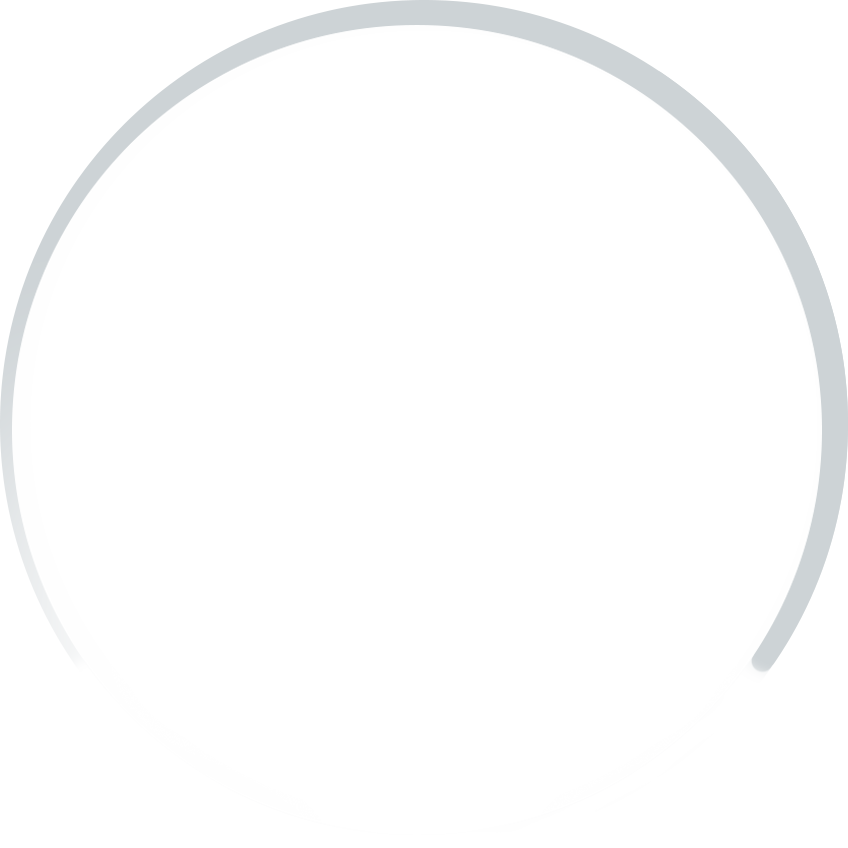
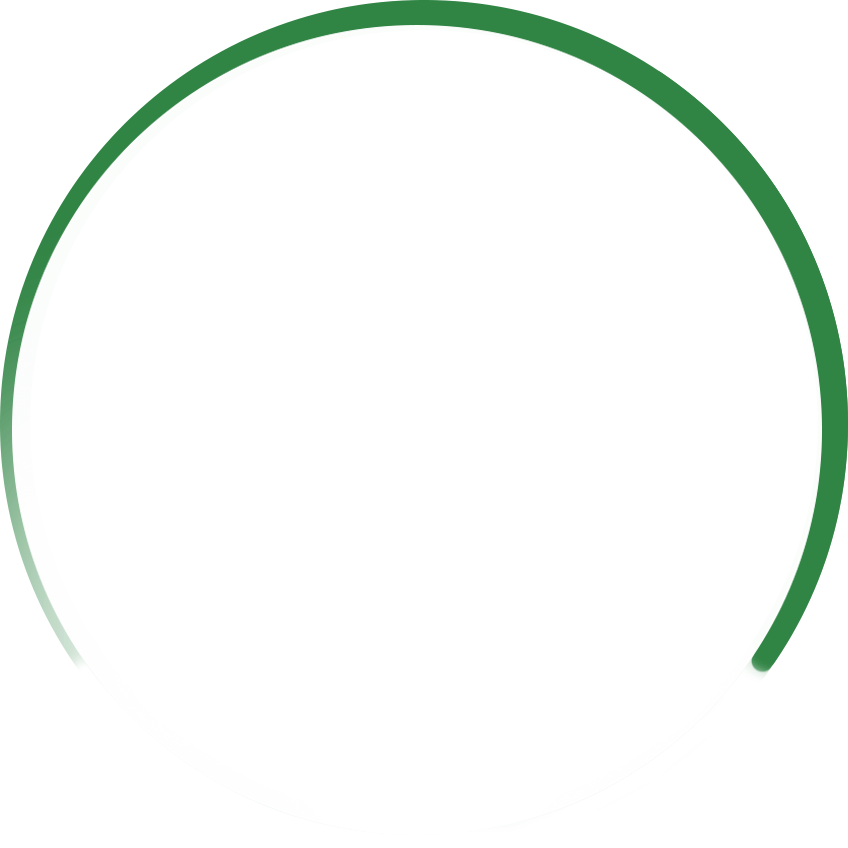
FrogPilot branding

Changed region(s): [[0.0, 0.0, 1.0, 0.7972]]

diff --git a/frogpilot/common/frogpilot_functions.py b/frogpilot/common/frogpilot_functions.py
@@ -2,8 +2,13 @@
 import threading
 import time
 
+from pathlib import Path
+
+from openpilot.common.basedir import BASEDIR
 from openpilot.common.time_helpers import system_time_valid
 from openpilot.system.hardware import HARDWARE
+
+from openpilot.frogpilot.common.frogpilot_utilities import run_cmd
 
 
 def frogpilot_boot_functions():
@@ -21,6 +26,32 @@ def install_frogpilot():
   for path in paths:
     path.mkdir(parents=True, exist_ok=True)
 
+  update_boot_logo(frogpilot=True)
+
 
 def uninstall_frogpilot():
+  update_boot_logo(stock=True)
+
   HARDWARE.uninstall()
+
+
+def update_boot_logo(frogpilot=False, stock=False):
+  boot_logo_location = Path("/usr/comma/bg.jpg")
+
+  if frogpilot:
+    target_logo = Path(BASEDIR) / "frogpilot/assets/other_images/frogpilot_boot_logo.jpg"
+  elif stock:
+    target_logo = Path(BASEDIR) / "frogpilot/assets/other_images/stock_bg.jpg"
+  else:
+    print(f'Error: Must specify either "frogpilot=True" or "stock=True"')
+    return
+
+  if not target_logo.is_file():
+    print(f"Error: Target logo file not found at {target_logo}")
+    return
+
+  if boot_logo_location.read_bytes() != target_logo.read_bytes():
+    mount_options = run_cmd(["findmnt", "-n", "-o", "OPTIONS", "/"], "Successfully retrieved mount options", "Failed to retrieve mount options")
+    run_cmd(["sudo", "mount", "-o", "remount,rw", "/"], "Successfully remounted / as read-write", "Failed to remount /")
+    run_cmd(["sudo", "cp", target_logo, boot_logo_location], "Successfully replaced boot logo", "Failed to replace boot logo")
+    run_cmd(["sudo", "mount", "-o", f"remount,{mount_options}", "/"], "Successfully restored / mount options", "Failed to restore / mount options")

diff --git a/selfdrive/selfdrived/selfdrived.py b/selfdrive/selfdrived/selfdrived.py
@@ -125,7 +125,7 @@ class SelfdriveD:
     self.rk = Ratekeeper(100, print_delay_threshold=None)
 
     # Determine startup event
-    self.startup_event = EventName.startup if build_metadata.openpilot.comma_remote and build_metadata.tested_channel else EventName.startupMaster
+    self.startup_event = FrogPilotEventName.customStartupAlert
     if HARDWARE.get_device_type() == 'mici':
       self.startup_event = None
     if not car_recognized:
@@ -158,7 +158,10 @@ class SelfdriveD:
 
     # Add startup event
     if self.startup_event is not None:
-      self.events.add(self.startup_event)
+      if self.startup_event in (FrogPilotEventName.customStartupAlert):
+        self.frogpilot_events.add(self.startup_event)
+      else:
+        self.events.add(self.startup_event)
       self.startup_event = None
 
     # Don't add any more events if not initialized

diff --git a/selfdrive/selfdrived/events.py b/selfdrive/selfdrived/events.py
@@ -395,6 +395,8 @@ def invalid_lkas_setting_alert(CP: car.CarParams, CS: car.CarState, sm: messagin
 
 
 # FrogPilot variables
+def custom_startup_alert(CP: car.CarParams, CS: car.CarState, sm: messaging.SubMaster, metric: bool, soft_disable_time: int, personality) -> Alert:
+  return StartupAlert(frogpilot_toggles.startup_alert_top, frogpilot_toggles.startup_alert_bottom, alert_status=FrogPilotAlertStatus.frogpilot)
 
 
 
@@ -1030,6 +1032,9 @@ EVENTS: dict[int, dict[str, Alert | AlertCallbackType]] = {
 
 # FrogPilot variables
 FROGPILOT_EVENTS: dict[int, dict[str, Alert | AlertCallbackType]] = {
+  FrogPilotEventName.customStartupAlert: {
+    ET.PERMANENT: custom_startup_alert,
+  },
 }
 
 

diff --git a/system/ui/spinner.py b/system/ui/spinner.py
@@ -28,6 +28,7 @@ LINE_HEIGHT = 104
 DARKGRAY = (55, 55, 55, 255)
 
 # FrogPilot variables
+GREEN = (23, 134, 68, 242)
 
 
 def clamp(value, min_value, max_value):
@@ -82,7 +83,7 @@ class Spinner(Widget):
       rl.draw_rectangle_rounded(bar, 1, 10, DARKGRAY)
 
       bar.width *= self._progress / 100.0
-      rl.draw_rectangle_rounded(bar, 1, 10, rl.WHITE)
+      rl.draw_rectangle_rounded(bar, 1, 10, GREEN)
     elif self._wrapped_lines:
       for i, line in enumerate(self._wrapped_lines):
         text_size = measure_text_cached(gui_app.font(), line, FONT_SIZE)

diff --git a/selfdrive/ui/qt/util.cc b/selfdrive/ui/qt/util.cc
@@ -27,7 +27,7 @@ QString getVersion() {
 }
 
 QString getBrand() {
-  return QObject::tr("openpilot");
+  return QObject::tr("FrogPilot");
 }
 
 QString getUserAgent() {

diff --git a/selfdrive/ui/qt/widgets/toggle.cc b/selfdrive/ui/qt/widgets/toggle.cc
@@ -75,7 +75,7 @@ void Toggle::setEnabled(bool value) {
   enabled = value;
   if (value) {
     circleColor.setRgb(0xfafafa);
-    green.setRgb(0x33ab4c);
+    green.setRgb(0x178644);
   } else {
     circleColor.setRgb(0x888888);
     green.setRgb(0x227722);